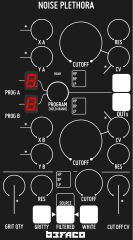
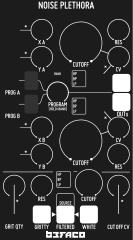
Experiments to wire in NoisePlethora text displays

Changed region(s): [[0.1805, 0.2917, 0.3008, 0.4667]]

diff --git a/firmware/vcv_plugin/export/src/app/ModuleWidget.cpp b/firmware/vcv_plugin/export/src/app/ModuleWidget.cpp
@@ -184,6 +184,12 @@ void ModuleWidget::addChild(Widget *widget) {
 	Widget::addChild(widget);
 }
 
+void ModuleWidget::addChild(ui::TextField *widget) {
+	log_widget("Skipped: addChild(unknown TextField)", widget);
+	adaptor->addText(widget);
+	Widget::addChild(widget);
+}
+
 void ModuleWidget::addChild(widget::SvgWidget *widget) {
 	log_widget("addChild(SvgWidget)", widget);
 	adaptor->addImage(widget);

diff --git a/firmware/vcv_plugin/internal/make_element.cc b/firmware/vcv_plugin/internal/make_element.cc
@@ -486,6 +486,14 @@ Element make_element(rack::app::SvgButton *widget) {
 	return make_element(widget->sw);
 }
 
+Element make_element(rack::ui::TextField *widget) {
+	DynamicTextDisplay element{};
+	element.text = widget->text;
+	element.font = "Segment32";
+	element.color = Colors565::Red;
+	return element;
+}
+
 //
 // Not supported
 //
